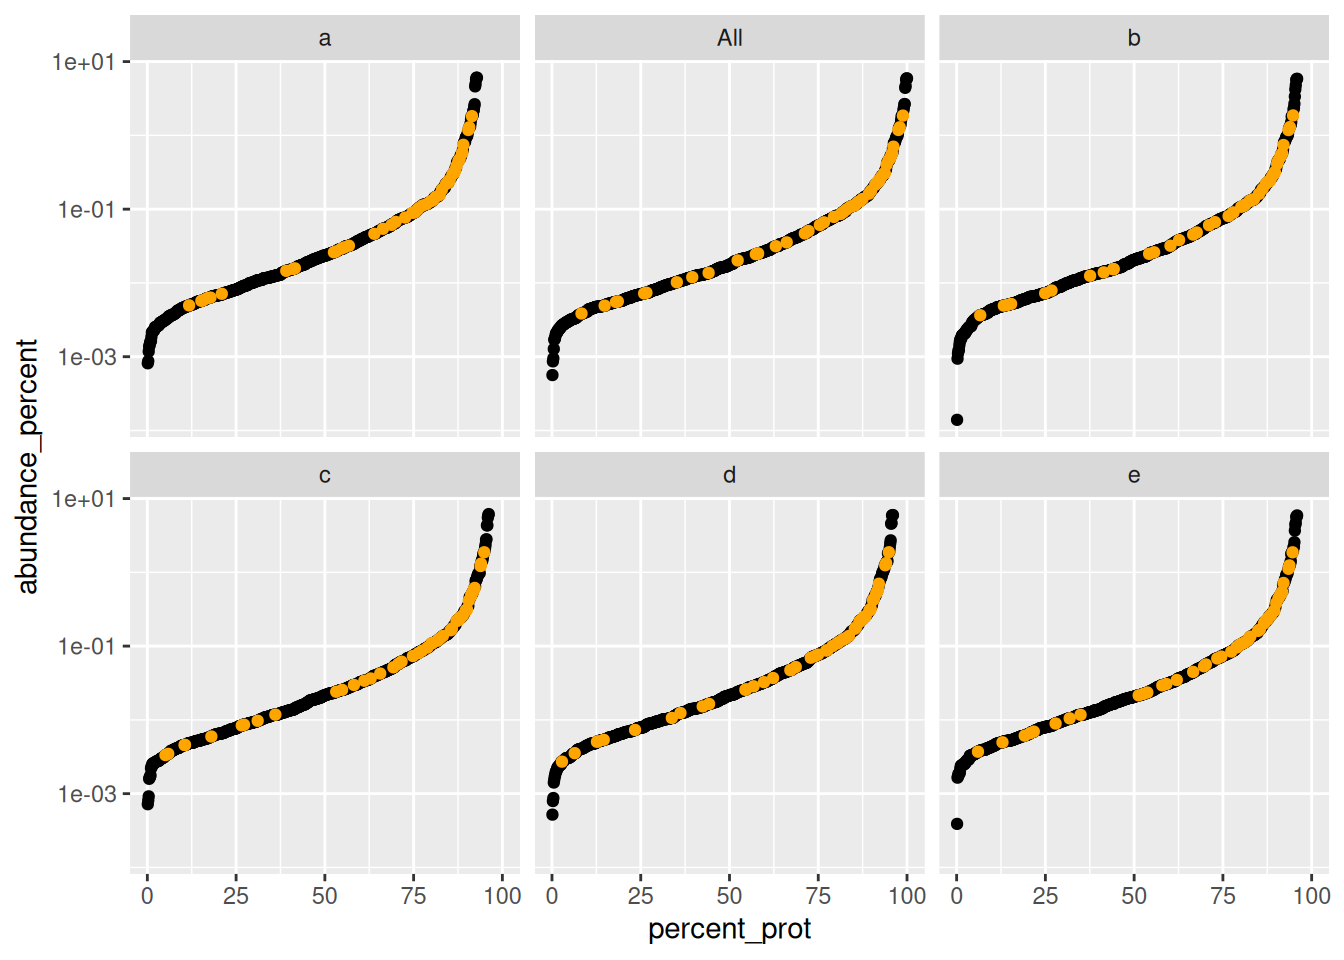
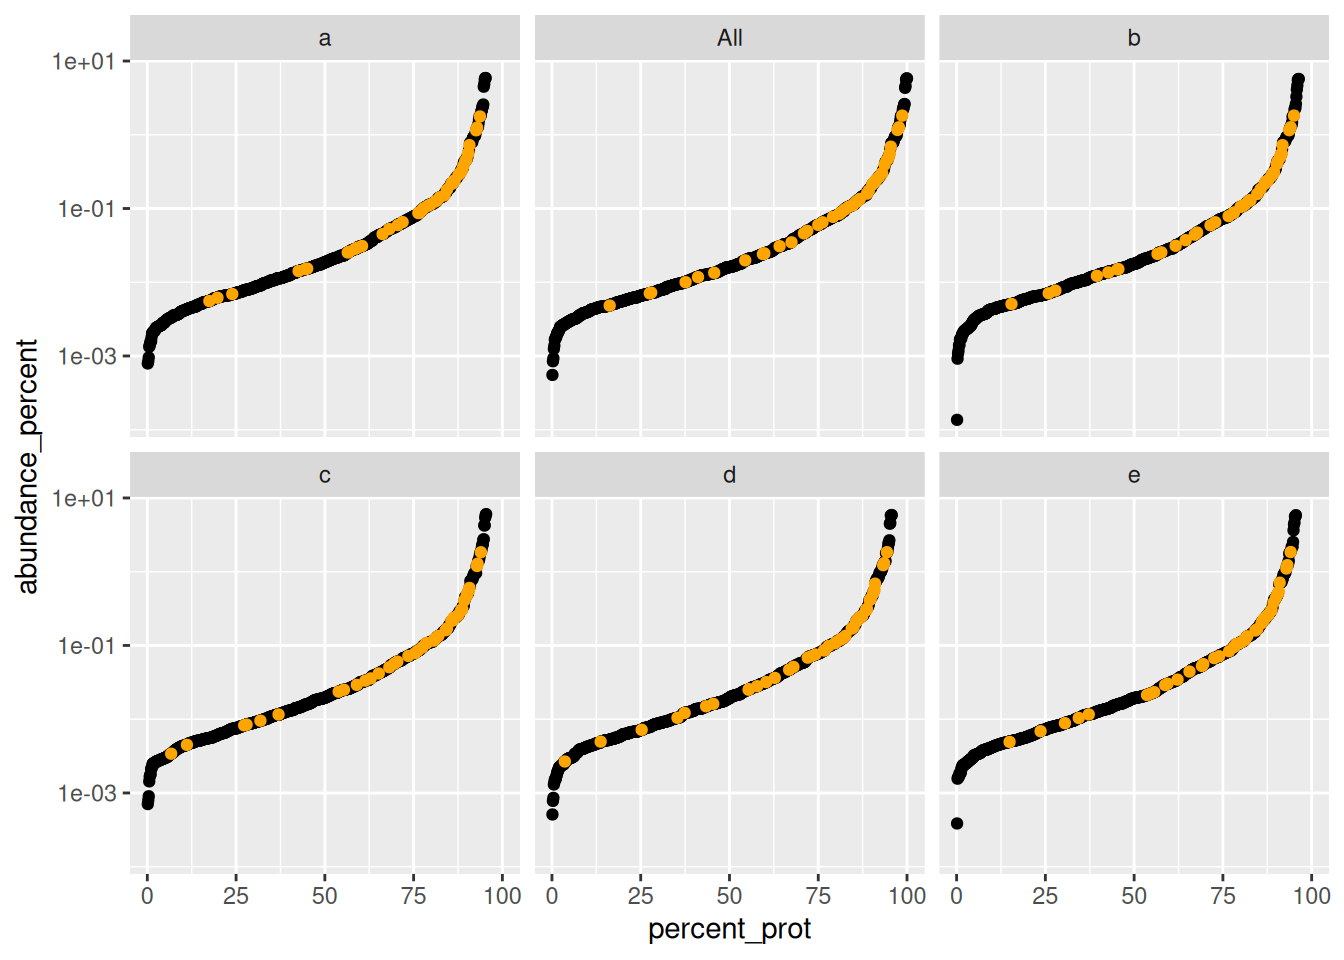
Deploying to gh-pages from @ prolfqua/prolfquapp@74fb16c400f6978acd0e9e7e87cb7136cc0d06a9 🚀

diff --git a/NEWS.html b/NEWS.html
@@ -867,6 +867,12 @@ ul.task-list li input[type="checkbox"] {
 
 
 
+<section id="prolfquapp-2.6.0" class="level1">
+<h1>prolfquapp 2.6.0</h1>
+<ul>
+<li>The full Docker image now includes the fixed-size Quarto report figures and interactive widgets introduced in 2.5.1.</li>
+</ul>
+</section>
 <section id="prolfquapp-2.5.1" class="level1">
 <h1>prolfquapp 2.5.1</h1>
 <ul>

diff --git a/CITATION.html b/CITATION.html
@@ -871,7 +871,7 @@ ul.task-list li input[type="checkbox"] {
 <h1>Citation</h1>
 <p>To cite package ‘prolfquapp’ in publications use:</p>
 <p>
-Wolski W, Schwarz L (????). <em>prolfquapp: Generating Dynamic DEA Reports with the prolfqua R Package</em>. R package version 2.5.1, <a href="https://prolfqua.github.io/prolfquapp/">https://prolfqua.github.io/prolfquapp/</a>.
+Wolski W, Schwarz L (????). <em>prolfquapp: Generating Dynamic DEA Reports with the prolfqua R Package</em>. R package version 2.6.0, <a href="https://prolfqua.github.io/prolfquapp/">https://prolfqua.github.io/prolfquapp/</a>.
 </p>
 
 